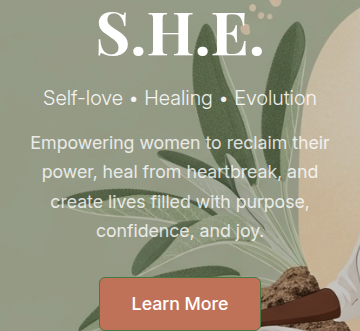
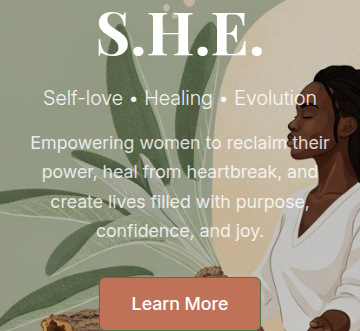
Improve homepage hero image display on mobile devices
Adjust CSS background positioning for hero images and add new hero image assets for various mobile screen sizes.

Replit-Commit-Author: Agent
Replit-Commit-Session-Id: 9f7b221e-bdd4-47e4-a740-e33a14017f24
Replit-Commit-Checkpoint-Type: full_checkpoint
Replit-Commit-Screenshot-Url: https://storage.googleapis.com/screenshot-production-us-central1/10d5fb80-0d10-4b93-9e1e-fd73085ec47b/9f7b221e-bdd4-47e4-a740-e33a14017f24/n2iXEfX

diff --git a/client/src/index.css b/client/src/index.css
@@ -329,7 +329,7 @@
 
 /* Hero background positioning for mobile/desktop responsiveness */
 .hero-background {
-  background-position: 75% center !important;
+  background-position: 85% center !important;
 }
 
 @media (min-width: 768px) {
